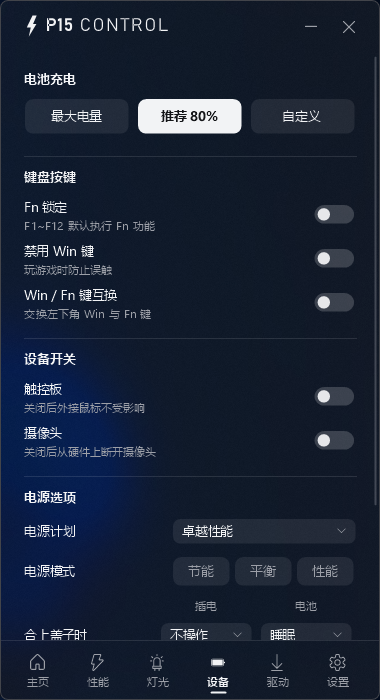
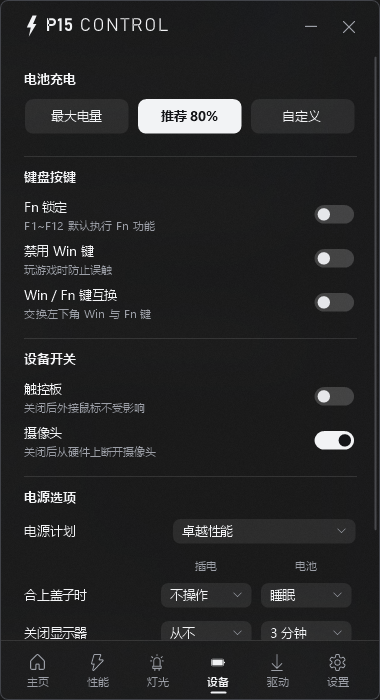
2.0.5：驱动页不再安装 NVIDIA 驱动，修复若干问题
- 驱动页和驱动安装器去掉 NVIDIA 显卡驱动（由用户自行安装），清理功能也不再动 NVIDIA 的文件
- 驱动列表的说明文字过长时显示为一行加「…」，不再叠成两行
- 托盘和窗口同时切换性能模式时排队执行，最后点的模式一定生效
- 驱动安装器收尾清理出错时不再卡住；个别驱动包版本号特殊时不再导致整次清理失败
- 安装程序重装同一版本时不再显示「将更新到同一版本」
- README：更新设备页、驱动页、安装程序截图和说明

diff --git a/src/Setup/SetupForm.cs b/src/Setup/SetupForm.cs
@@ -57,11 +57,6 @@ namespace P15
         CancellationTokenSource cts;
         bool working;
 
-        [DllImport("user32.dll")] static extern bool ReleaseCapture();
-        [DllImport("user32.dll")] static extern IntPtr SendMessage(IntPtr h, int msg, IntPtr w, IntPtr l);
-        [DllImport("dwmapi.dll")] static extern int DwmSetWindowAttribute(IntPtr h, int attr, ref int v, int size);
-        [DllImport("uxtheme.dll", CharSet = CharSet.Unicode)] static extern int SetWindowTheme(IntPtr h, string app, string id);
-
         public SetupForm(string mode, string[] preselect)
         {
             this.mode = mode; this.preselect = preselect;
@@ -139,22 +134,6 @@ namespace P15
             status.Text = "正在检测已安装的驱动…";
             var res = await Task.Run(() => StateFile.Merge(Detector.Detect()));
             foreach (var r in rows) { DriverState s; if (res.TryGetValue(r.Item.Id, out s)) r.State = s; r.Invalidate(); }
-            // NVIDIA：对比官网最新版本
-            var nv = rows.First(r => r.Item.Id == "nvidia");
-            try
-            {
-                var rel = await Task.Run(() => Engine.NvidiaLatest());
-                var mine = Engine.NvVersionFromWin(nv.State.Version);
-                if (nv.State.Status == DrvStatus.Installed && mine != "" && string.CompareOrdinal(mine, rel.Version) < 0)
-                {
-                    nv.State.Status = DrvStatus.Outdated;
-                    nv.State.Message = "当前 " + mine + "，最新 " + rel.Version;
-                    StateFile.Save("nvidia", DrvStatus.Outdated, nv.State.Version, nv.State.Message);
-                }
-                nv.Item.Note = "最新 " + rel.Version + "（" + rel.Date + "）；只装驱动+PhysX，不装 NVIDIA App";
-                nv.Invalidate();
-            }
-            catch { }
             status.Text = "检测完成";
         }
 
@@ -196,7 +175,6 @@ namespace P15
                 var det = await Task.Run(() => Detector.Detect());
                 DriverState s; det.TryGetValue(row.Item.Id, out s);
                 bool installed = s != null && s.Status == DrvStatus.Installed;
-                if (row.Item.Kind == PkgKind.NvidiaLatest && err == null) installed = true;
                 if (err == null && installed) { ok++; row.State = s ?? new DriverState { Status = DrvStatus.Installed }; row.State.Status = DrvStatus.Installed; StateFile.Save(row.Item.Id, DrvStatus.Installed, row.State.Version, ""); }
                 else
                 {
@@ -218,19 +196,22 @@ namespace P15
         async Task Cleanup()
         {
             SetBusy(true); bInstall.Enabled = false;
-            status.Text = "正在查找可清理的内容…";
-            var olds = await Task.Run(() => DriverCleanup.FindOldDrivers());
-            long cache = await Task.Run(() => DriverCleanup.PendingBytes());
-            var msg = "将要清理：\n· 驱动安装包缓存和 NVIDIA 安装残留，约 " + (cache / 1048576) + " MB\n· 驱动库里被新版本取代的旧驱动包 " + olds.Count + " 个（正在使用的会自动跳过）";
-            if (!Dialog.Ask(this, "收尾清理", msg, "开始清理"))
-            { SetBusy(false); bInstall.Enabled = true; status.Text = "已取消清理"; return; }
-            status.Text = "正在清理…";
-            int del = 0; long freed = 0;
-            await Task.Run(() => { del = DriverCleanup.DeleteOldDrivers(olds); freed = DriverCleanup.CleanFiles(); });
-            var final = await Task.Run(() => StateFile.Merge(Detector.Detect()));
-            foreach (var r in rows) { DriverState s; if (final.TryGetValue(r.Item.Id, out s)) r.State = s; r.Invalidate(); }
-            SetBusy(false); bInstall.Enabled = true;
-            status.Text = "清理完成：释放 " + (freed / 1048576) + " MB，删除旧驱动包 " + del + " 个" + (Engine.RebootNeeded ? "。部分驱动需要重启后生效" : "");
+            try
+            {
+                status.Text = "正在查找可清理的内容…";
+                var olds = await Task.Run(() => DriverCleanup.FindOldDrivers());
+                long cache = await Task.Run(() => DriverCleanup.PendingBytes());
+                var msg = "将要清理：\n· 驱动安装包缓存，约 " + (cache / 1048576) + " MB\n· 驱动库里被新版本取代的旧驱动包 " + olds.Count + " 个（正在使用的会自动跳过）";
+                if (!Dialog.Ask(this, "收尾清理", msg, "开始清理")) { status.Text = "已取消清理"; return; }
+                status.Text = "正在清理…";
+                int del = 0; long freed = 0;
+                await Task.Run(() => { del = DriverCleanup.DeleteOldDrivers(olds); freed = DriverCleanup.CleanFiles(); });
+                var final = await Task.Run(() => StateFile.Merge(Detector.Detect()));
+                foreach (var r in rows) { DriverState s; if (final.TryGetValue(r.Item.Id, out s)) r.State = s; r.Invalidate(); }
+                status.Text = "清理完成：释放 " + (freed / 1048576) + " MB，删除旧驱动包 " + del + " 个" + (Engine.RebootNeeded ? "。部分驱动需要重启后生效" : "");
+            }
+            catch (Exception ex) { if (!IsDisposed) status.Text = "清理失败：" + ex.Message; }
+            finally { if (!IsDisposed) { SetBusy(false); bInstall.Enabled = true; } }   // 出错也要恢复按钮，不能一直卡在清理中
         }
         static void Reboot()
         {

diff --git a/src/Center/MainForm.cs b/src/Center/MainForm.cs
@@ -1181,7 +1181,7 @@ namespace P15
             var hero = NewCard(drvEmpty, null, 6, 312);
             hero.Controls.Add(new Label2("") { Font = Theme.IconLarge, Fore = Theme.P.Accent, Align = ContentAlignment.MiddleCenter, Bounds = new Rectangle(0, 34, hero.Width, 64) });
             hero.Controls.Add(new Label2("驱动管理") { Font = Theme.Title, Align = ContentAlignment.MiddleCenter, Bounds = new Rectangle(0, 104, hero.Width, 30) });
-            hero.Controls.Add(new Label2("检测本机驱动，从七彩虹官网和 NVIDIA 官网\n下载并静默安装。\n驱动装好后可以删除组件，需要时再获取。", true)
+            hero.Controls.Add(new Label2("检测本机驱动，从七彩虹官网和 Intel 官网\n下载并静默安装。NVIDIA 显卡驱动请自行安装。\n驱动装好后可以删除组件，需要时再获取。", true)
             { Align = ContentAlignment.TopCenter, Bounds = new Rectangle(20, 142, hero.Width - 40, 60) });
             var bGet = new Btn("获取驱动组件", true) { Bounds = new Rectangle(40, 214, hero.Width - 80, 40) };
             bGet.Click += (s, e) => GetDriverComponent();
@@ -1308,7 +1308,7 @@ namespace P15
                 ty += 48;
             };
             tool("驱动安装器", "手动选择要安装的驱动", "打开", (s, e) => LaunchSetup(""));
-            tool("收尾清理", "删除安装包缓存、NVIDIA 残留、旧驱动包", "清理", (s, e) => CleanupDrivers());
+            tool("收尾清理", "删除驱动安装包缓存和被取代的旧驱动包", "清理", (s, e) => CleanupDrivers());
             tool("删除驱动组件", "驱动装好后可删除，需要时再获取", "删除", (s, e) => RemoveDriverComponent());
             t.Height = ty + 6; drvFull.Controls.Add(t); y += t.Height + 40;   // 底部留出状态栏位置
 
@@ -1378,7 +1378,7 @@ namespace P15
                 if (IsDisposed) return;
                 if (olds.Count == 0 && cache < 1048576) { Say("没有需要清理的内容"); return; }
                 Say("");
-                var msg = "将要清理：\n· 驱动安装包缓存和 NVIDIA 安装残留，约 " + (cache / 1048576) + " MB\n· 驱动库里被新版本取代的旧驱动包 " + olds.Count + " 个（正在使用的会自动跳过）";
+                var msg = "将要清理：\n· 驱动安装包缓存，约 " + (cache / 1048576) + " MB\n· 驱动库里被新版本取代的旧驱动包 " + olds.Count + " 个（正在使用的会自动跳过）";
                 if (!Dialog.Ask(this, "收尾清理", msg, "开始清理")) return;
                 Say("正在清理…", false, true);
                 var r = await Task.Run(() => { int del = DriverCleanup.DeleteOldDrivers(olds); long freed = DriverCleanup.CleanFiles(); return Tuple.Create(del, freed); });
@@ -1419,7 +1419,7 @@ namespace P15
         /// <summary>删除驱动组件及其全部残留（已安装的驱动不受影响）</summary>
         async void RemoveDriverComponent()
         {
-            if (!Dialog.Ask(this, "删除驱动组件", "将删除：驱动安装器、下载的驱动安装包和缓存、安装记录（C:\\ProgramData\\P15Center）、NVIDIA 安装残留、桌面上的驱动安装报告。\n\n已经装好的驱动不会受影响，以后需要时可以重新获取。", "删除", "取消"))
+            if (!Dialog.Ask(this, "删除驱动组件", "将删除：驱动安装器、下载的驱动安装包和缓存、安装记录（C:\\ProgramData\\P15Center）、桌面上的驱动安装报告。\n\n已经装好的驱动不会受影响，以后需要时可以重新获取。", "删除", "取消"))
                 return;
             Say("正在删除驱动组件…");
             var report = await Task.Run(() =>
@@ -1448,7 +1448,6 @@ namespace P15
                 if (!delFile(SetupExe)) left.Add(SetupExe);
                 delFile(SetupExe + ".tmp");
                 delDir(StateFile.Dir);                 // C:\ProgramData\P15Center（缓存、解压文件、安装记录）
-                delDir(@"C:\NVIDIA");                  // NVIDIA 安装包解压残留
                 foreach (var desk in new[] { Environment.GetFolderPath(Environment.SpecialFolder.DesktopDirectory), Environment.GetFolderPath(Environment.SpecialFolder.CommonDesktopDirectory) })
                 {
                     var r = Path.Combine(desk, "P15驱动安装报告.txt");

diff --git a/src/Setup/Installer.cs b/src/Setup/Installer.cs
@@ -43,8 +43,6 @@ namespace P15
 
         public static void Install(DriverItem d, Action<string, int> progress, CancellationToken ct)
         {
-            if (d.Kind == PkgKind.NvidiaLatest) { InstallNvidia(progress, ct); return; }
-
             var file = Path.GetFileName(new Uri(d.Url).LocalPath);
             progress("下载中", 0);
             var archive = Engine.Download(d.Url, file, p => progress("下载 " + p + "%", p), ct);
@@ -88,32 +86,6 @@ namespace P15
                     break;
                 default: throw new Exception("未定义安装方式");
             }
-        }
-
-        static void InstallNvidia(Action<string, int> progress, CancellationToken ct)
-        {
-            progress("查询最新版", 0);
-            var rel = Engine.NvidiaLatest();
-            Engine.Log("NVIDIA 最新驱动 " + rel.Version);
-            var file = Path.GetFileName(new Uri(rel.Url).LocalPath);
-            var exe = Engine.Download(rel.Url, file, p => progress("下载 " + p + "%", p), ct);
-            ct.ThrowIfCancellationRequested();
-            progress("解压中", 100);
-            string dir = null;
-            try { dir = Engine.Extract(exe, "nvidia"); } catch (Exception ex) { Engine.Log("解压 NVIDIA 安装包失败，改用整包静默安装：" + ex.Message); }
-            progress("安装中（屏幕会闪烁）", 100);
-            if (dir != null && File.Exists(Path.Combine(dir, "setup.exe")))
-            {
-                // 只装 显示驱动 + HD 音频 + PhysX，不装 NVIDIA App / GeForce Experience
-                int code = Engine.RunInstaller(Path.Combine(dir, "setup.exe"), "-s -noreboot -noeula -nofinish -passive Display.Driver HDAudio.Driver PhysX");
-                if (Engine.Ok(code)) return;
-                Engine.Log("按组件安装返回 " + code + "，改用默认组件安装");
-                code = Engine.RunInstaller(Path.Combine(dir, "setup.exe"), "-s -noreboot -noeula");
-                if (!Engine.Ok(code)) throw new Exception("NVIDIA 安装程序返回错误码 " + code);
-                return;
-            }
-            int c2 = Engine.RunInstaller(exe, "-s -noreboot -noeula");
-            if (!Engine.Ok(c2)) throw new Exception("NVIDIA 安装程序返回错误码 " + c2);
         }
     }
 }

diff --git a/src/Setup/Engine.cs b/src/Setup/Engine.cs
@@ -11,8 +11,6 @@ using System.Threading;
 
 namespace P15
 {
-    public sealed class NvRelease { public string Version, Url, Date; public long Size; }
-
     public static class Engine
     {
         public static Action<string> Log = s => { };
@@ -24,31 +22,6 @@ namespace P15
         {
             ServicePointManager.SecurityProtocol = SecurityProtocolType.Tls12 | (SecurityProtocolType)12288; // TLS1.2 / 1.3
             DriverCleanup.Log = L;   // 收尾清理的过程写进同一份日志
-        }
-
-        // ---------------- NVIDIA 最新驱动 ----------------
-        public static NvRelease NvidiaLatest()
-        {
-            // psid 129 = GeForce RTX 40 Series (Notebooks)，pfid 1008 = RTX 4050 Laptop GPU，osID 135 = Windows 11
-            const string u = "https://gfwsl.geforce.com/services_toolkit/services/com/nvidia/services/AjaxDriverService.php" +
-                             "?func=DriverManualLookup&psid=129&pfid=1008&osID=135&languageCode=2052&beta=0&isWHQL=1&dltype=-1&dch=1&upCRD=0&qnf=0&sort1=0&numberOfResults=1";
-            using (var wc = new WebClient { Encoding = Encoding.UTF8 })
-            {
-                var j = wc.DownloadString(u);
-                Func<string, string> get = k => { var m = Regex.Match(j, "\"" + k + "\"\\s*:\\s*\"([^\"]*)\""); return m.Success ? m.Groups[1].Value.Replace("\\/", "/") : ""; };
-                var r = new NvRelease { Version = get("Version"), Url = get("DownloadURL"), Date = get("ReleaseDateTime") };
-                if (r.Version == "" || !r.Url.StartsWith("https://")) throw new Exception("NVIDIA 官网没有返回驱动信息");
-                return r;
-            }
-        }
-
-        /// <summary>Windows 驱动版本 32.0.16.2114 → NVIDIA 版本 621.14</summary>
-        public static string NvVersionFromWin(string winVer)
-        {
-            var digits = (winVer ?? "").Replace(".", "");
-            if (digits.Length < 5) return "";
-            var last5 = digits.Substring(digits.Length - 5);
-            return last5.Substring(0, 3) + "." + last5.Substring(3);
         }
 
         // ---------------- 下载（断点续传） ----------------

diff --git a/src/Common/Drivers.cs b/src/Common/Drivers.cs
@@ -12,13 +12,11 @@ namespace P15
 {
     public enum Tier { Required = 0, Recommended = 1, Optional = 2 }
     public enum DrvStatus { Unknown, Installed, NotInstalled, Failed, Installing, Outdated }
-    public enum PkgKind { OemArchive, NvidiaLatest }
 
     public sealed class DriverItem
     {
         public string Id, Name, Note, Url, Source;
         public Tier Tier;
-        public PkgKind Kind = PkgKind.OemArchive;
         public bool Background;       // 是否有常驻后台程序/服务
         public int SizeMB;
         public string[] HwIds = new string[0];   // 设备 ID 正则（任一匹配且驱动非微软通用即算已安装）
@@ -56,8 +54,7 @@ namespace P15
             new DriverItem { Id="serialio", Name="英特尔串行 IO", Tier=Tier.Required, Url=Oem+"02_SerialIO.rar", Source="原厂", SizeMB=3,
                 Note="触控板 I2C、GPIO", HwIds=new[]{@"PCI\\VEN_8086&DEV_51E8", @"ACPI\\INTC1055"}, ProviderRx="(?i)intel" },
             // ---------- 推荐 ----------
-            new DriverItem { Id="nvidia", Name="NVIDIA 显卡驱动 (最新版)", Tier=Tier.Recommended, Kind=PkgKind.NvidiaLatest, Source="NVIDIA 官方最新", SizeMB=650,
-                Note="不用原厂 2023 老版本；只装驱动+PhysX，不装 NVIDIA App", HwIds=new[]{@"PCI\\VEN_10DE&DEV_28A1"}, ProviderRx="(?i)nvidia" },
+            // NVIDIA 显卡驱动不在这里装：用户自己从 NVIDIA 官网 / NVIDIA App 安装
             new DriverItem { Id="igfx", Name="英特尔核显驱动 (UHD)", Tier=Tier.Recommended,
                 Url="https://downloadmirror.intel.com/929468/gfx_win_101.7092.exe", Source="Intel 官方", SizeMB=745,
                 Note="32.0.101.7092，只装驱动本体，不装 Intel 显卡控制中心；混合模式下才会用到核显", HwIds=new[]{@"PCI\\VEN_8086&DEV_46[A-D]"}, ProviderRx="(?i)intel", StoreInf="iigd_dch.inf" },

diff --git a/src/Common/Dchu.cs b/src/Common/Dchu.cs
@@ -254,19 +254,26 @@ namespace P15
         ///   · 原厂 Fn 热键程序在运行：和原厂控制中心一样交给它执行（它还会顺带处理低刷新率和屏幕提示）；
         ///   · 没有原厂程序（被卸载、没装）或它没响应：本程序直接发送这条命令，并把模式记到原厂设置里。
         /// </summary>
+        static readonly object ModeGate = new object();
+
         public static bool SetPowerMode(PowerMode mode, int timeoutMs = 2500)
         {
             if (mode == PowerMode.Unknown) return false;
-            if (FnKeyRunning && OutLog("clevocc30^101^" + (int)mode))
+            // 托盘菜单和窗口几乎同时切换时排队执行：保证最后点的模式最后生效，
+            // 不会出现前一次等待超时后又补发一次，把后点的模式改回去
+            lock (ModeGate)
             {
-                var sw = Stopwatch.StartNew();
-                while (sw.ElapsedMilliseconds < timeoutMs)
+                if (FnKeyRunning && OutLog("clevocc30^101^" + (int)mode))
                 {
-                    Thread.Sleep(150);
-                    if (GetPowerMode() == mode) return true;
+                    var sw = Stopwatch.StartNew();
+                    while (sw.ElapsedMilliseconds < timeoutMs)
+                    {
+                        Thread.Sleep(150);
+                        if (GetPowerMode() == mode) return true;
+                    }
                 }
+                return SetPowerModeDirect(mode);
             }
-            return SetPowerModeDirect(mode);
         }
 
         /// <summary>不经过原厂程序，直接向 BIOS 发送切换命令（与原厂 Fn 热键程序发送的命令相同）</summary>

diff --git a/src/Common/Cleanup.cs b/src/Common/Cleanup.cs
@@ -17,7 +17,7 @@ namespace P15
 
         static readonly string[] Dirs =
         {
-            StateFile.CacheDir, @"C:\NVIDIA", Path.Combine(Path.GetTempPath(), "NVIDIA Corporation"), @"C:\ProgramData\NVIDIA Corporation\Downloader"
+            StateFile.CacheDir   // 只清理本程序下载的安装包缓存；NVIDIA 驱动由用户自己装，不动它的文件
         };
 
         static int Pnputil(string args, out string output)
@@ -62,8 +62,10 @@ namespace P15
             }
             if (cur != null) list.Add(cur);
             var old = new List<OldDriver>();
-            foreach (var g in list.Where(d => d.Original != null && d.Version != null).GroupBy(d => d.Original))
-                old.AddRange(g.OrderByDescending(d => new Version(d.Version)).Skip(1));
+            // 版本号解析不了的包（个别厂商写法特殊）直接跳过，不能让一个包导致整次清理失败
+            Version ignored;
+            foreach (var g in list.Where(d => d.Original != null && d.Version != null && Version.TryParse(d.Version, out ignored)).GroupBy(d => d.Original))
+                old.AddRange(g.OrderByDescending(d => Version.Parse(d.Version)).Skip(1));
             return old;
         }
 
@@ -80,7 +82,7 @@ namespace P15
             return n;
         }
 
-        /// <summary>可清理的文件大小（安装包缓存 + NVIDIA 安装残留）</summary>
+        /// <summary>可清理的文件大小（驱动安装包缓存）</summary>
         public static long PendingBytes()
         {
             long n = 0;

diff --git a/src/Installer/SetupApp.cs b/src/Installer/SetupApp.cs
@@ -334,8 +334,9 @@ namespace P15
             MouseDown += (s, e) => DragMove();
             Controls.Add(mark);
             var old = SetupApp.InstalledVersion();
+            bool upgrade = old != null && old != Brand.Version;   // 装的是同一个版本时就是重新安装，不显示「更新到同一版本」
             string sub = uninstall ? "将从这台电脑上删除 " + Brand.Name
-                       : old == null ? "版本 " + Brand.Version + "，适用于七彩虹 隐星 P15（蓝天模具）"
+                       : !upgrade ? "版本 " + Brand.Version + "，适用于七彩虹 隐星 P15（蓝天模具）"
                        : "已安装 " + old + "，将更新到 " + Brand.Version;
             Controls.Add(new Label2(sub, true) { Bounds = new Rectangle(24, 58, W - 48, 20) });
 
@@ -377,7 +378,7 @@ namespace P15
 
             int by = ClientSize.Height - 24 - 38;
             cancel = new Btn("取消") { Bounds = new Rectangle(24, by, 120, 38) };
-            go = new Btn(uninstall ? "卸载" : (old == null ? "安装" : "更新"), true) { Bounds = new Rectangle(24 + 128, by, W - 48 - 128, 38) };
+            go = new Btn(uninstall ? "卸载" : (upgrade ? "更新" : "安装"), true) { Bounds = new Rectangle(24 + 128, by, W - 48 - 128, 38) };
             cancel.Click += (s, e) => { if (!busy) Close(); };
             go.Click += async (s, e) => await Go();
             Controls.Add(cancel); Controls.Add(go);

diff --git a/src/Common/Ui.cs b/src/Common/Ui.cs
@@ -139,6 +139,24 @@ namespace P15
             g.TextRenderingHint = th;
         }
 
+        static readonly StringFormat FOneLine = MakeOneLine();
+        static StringFormat MakeOneLine()
+        {
+            var f = Fmt(StringAlignment.Near, StringAlignment.Center);
+            f.FormatFlags |= StringFormatFlags.NoWrap;
+            return f;
+        }
+
+        /// <summary>单行文字：放不下时末尾显示「…」，不会折成两行叠在一起</summary>
+        public static void TextLine(Graphics g, string s, Font f, Color c, RectangleF r)
+        {
+            if (string.IsNullOrEmpty(s)) return;
+            var th = g.TextRenderingHint;
+            g.TextRenderingHint = TextRenderingHint.AntiAliasGridFit;
+            using (var b = new SolidBrush(c)) g.DrawString(s, f, b, r, FOneLine);
+            g.TextRenderingHint = th;
+        }
+
         /// <summary>单行文字尺寸（与 Text 的绘制方式一致）</summary>
         public static SizeF Measure(Graphics g, string s, Font f) { return g.MeasureString(s, f, PointF.Empty, FTopLeft); }
     }

diff --git a/src/Center/Controls2.cs b/src/Center/Controls2.cs
@@ -182,9 +182,9 @@ namespace P15
             g.SmoothingMode = SmoothingMode.AntiAlias;
             using (var b = new SolidBrush(Dot)) g.FillEllipse(b, 4, Height / 2f - 4, 8, 8);
             int right = ActionText != null ? 80 : 96;
-            Theme.Text(g, Title, Theme.Body, p.Text, new RectangleF(20, string.IsNullOrEmpty(Sub) ? 0 : 6, Width - 20 - right, string.IsNullOrEmpty(Sub) ? Height : 20));
+            Theme.TextLine(g, Title, Theme.Body, p.Text, new RectangleF(20, string.IsNullOrEmpty(Sub) ? 0 : 6, Width - 20 - right, string.IsNullOrEmpty(Sub) ? Height : 20));
             if (!string.IsNullOrEmpty(Sub))
-                Theme.Text(g, Sub, Theme.Small, p.SubText, new RectangleF(20, 27, Width - 20 - right, 18));
+                Theme.TextLine(g, Sub, Theme.Small, p.SubText, new RectangleF(20, 27, Width - 20 - right, 18));
             if (ActionText != null)
             {
                 var r = BtnRect;

diff --git a/src/Common/Brand.cs b/src/Common/Brand.cs
@@ -10,7 +10,7 @@ namespace P15
     public static class Brand
     {
         public const string Name = "P15 CONTROL";
-        public const string Version = "2.0.4";
+        public const string Version = "2.0.5";
         public const string Url = "https://github.com/yctfjsdjb/p15-control";
         public static readonly Color Ink = Color.FromArgb(242, 243, 245);    // 标志的白
         public static readonly Color Graphite = Color.FromArgb(30, 31, 35);  // 图标底色（石墨）

diff --git a/README.md b/README.md
@@ -71,7 +71,7 @@ Get-PnpDevice -InstanceId 'ACPI\CLV000*'
    - 是否创建桌面快捷方式
    - 是否开机自动启动
    - 装完是否立即运行
-3. **更新**：直接运行新版安装包。会自动关闭正在运行的旧版本再覆盖，设置都会保留。
+3. **更新**：直接运行新版安装包。会先让正在运行的旧版本自己退出（散热器交还按键控制、托盘图标正常消失）再覆盖，设置都会保留。
 
 <p align="center"><img src="docs/images/installer.png" width="300" alt="安装程序"></p>
 
@@ -157,19 +157,19 @@ Get-PnpDevice -InstanceId 'ACPI\CLV000*'
 
 驱动功能是**可选组件**，内置在控制中心里：
 - 第一次打开驱动页时只有一个「获取驱动组件」按钮，点了才会释放出驱动安装器，不需要联网。
-- 驱动装完以后可以点「删除驱动组件」，会把安装器、下载缓存、安装记录、NVIDIA 安装残留全部删干净，需要时再获取。
+- 驱动装完以后可以点「删除驱动组件」，会把安装器、下载缓存、安装记录全部删干净，需要时再获取。
+- **NVIDIA 显卡驱动不在这里装**：请到 NVIDIA 官网或用 NVIDIA App 自行安装最新版。
 
 驱动页的行为：
 - **手动检测**：打开驱动页只显示上次检测的结果，点「检测驱动 / 重新检测」才会检测。
 - 结果按「需要处理 / 已安装 / 可选」分组；缺失的必装和推荐驱动可以「一键安装」。
-- **收尾清理**：直接在控制中心里完成。会删除驱动安装包缓存、NVIDIA 安装残留，以及驱动库里被新版本取代的旧驱动包（正在使用的会自动跳过）。
+- **收尾清理**：直接在控制中心里完成。会删除驱动安装包缓存，以及驱动库里被新版本取代的旧驱动包（正在使用的会自动跳过）。
 
 驱动安装器包含以下驱动：
 
 | 分组 | 驱动 | 来源 | 说明 |
 |---|---|---|---|
 | 必装 | 芯片组、原厂底层服务（Fn 热键 / ACPI）、无线网卡 AX211、蓝牙、有线网卡 RTL8168、音频（Realtek / 智音）、英特尔串行 IO | 七彩虹官网 | 原厂底层服务提供 Fn 组合键、性能模式、显卡切换和本程序的硬件接口 |
-| 推荐 | **NVIDIA 显卡驱动** | NVIDIA 官网最新版 | 不用原厂的老版本；只装显示驱动、HD 音频和 PhysX，不装 NVIDIA App |
 | 推荐 | **英特尔核显驱动（UHD）** | Intel 官方 32.0.101.7092 | 只装驱动本体（`iigd_dch.inf`），不装 Intel 显卡控制中心。独显直连时核显被隐藏，驱动先放进系统驱动库，切到混合模式后自动生效 |
 | 推荐 | 英特尔动态调谐 DTT、英特尔 HID 事件筛选器 | 七彩虹官网 | 分别影响性能释放和部分热键 |
 | 可选 | 英特尔管理引擎 ME、英特尔 GNA、SBC 音效软件、Creative 音效 APP | 七彩虹官网 | 不装也不影响正常使用 |
